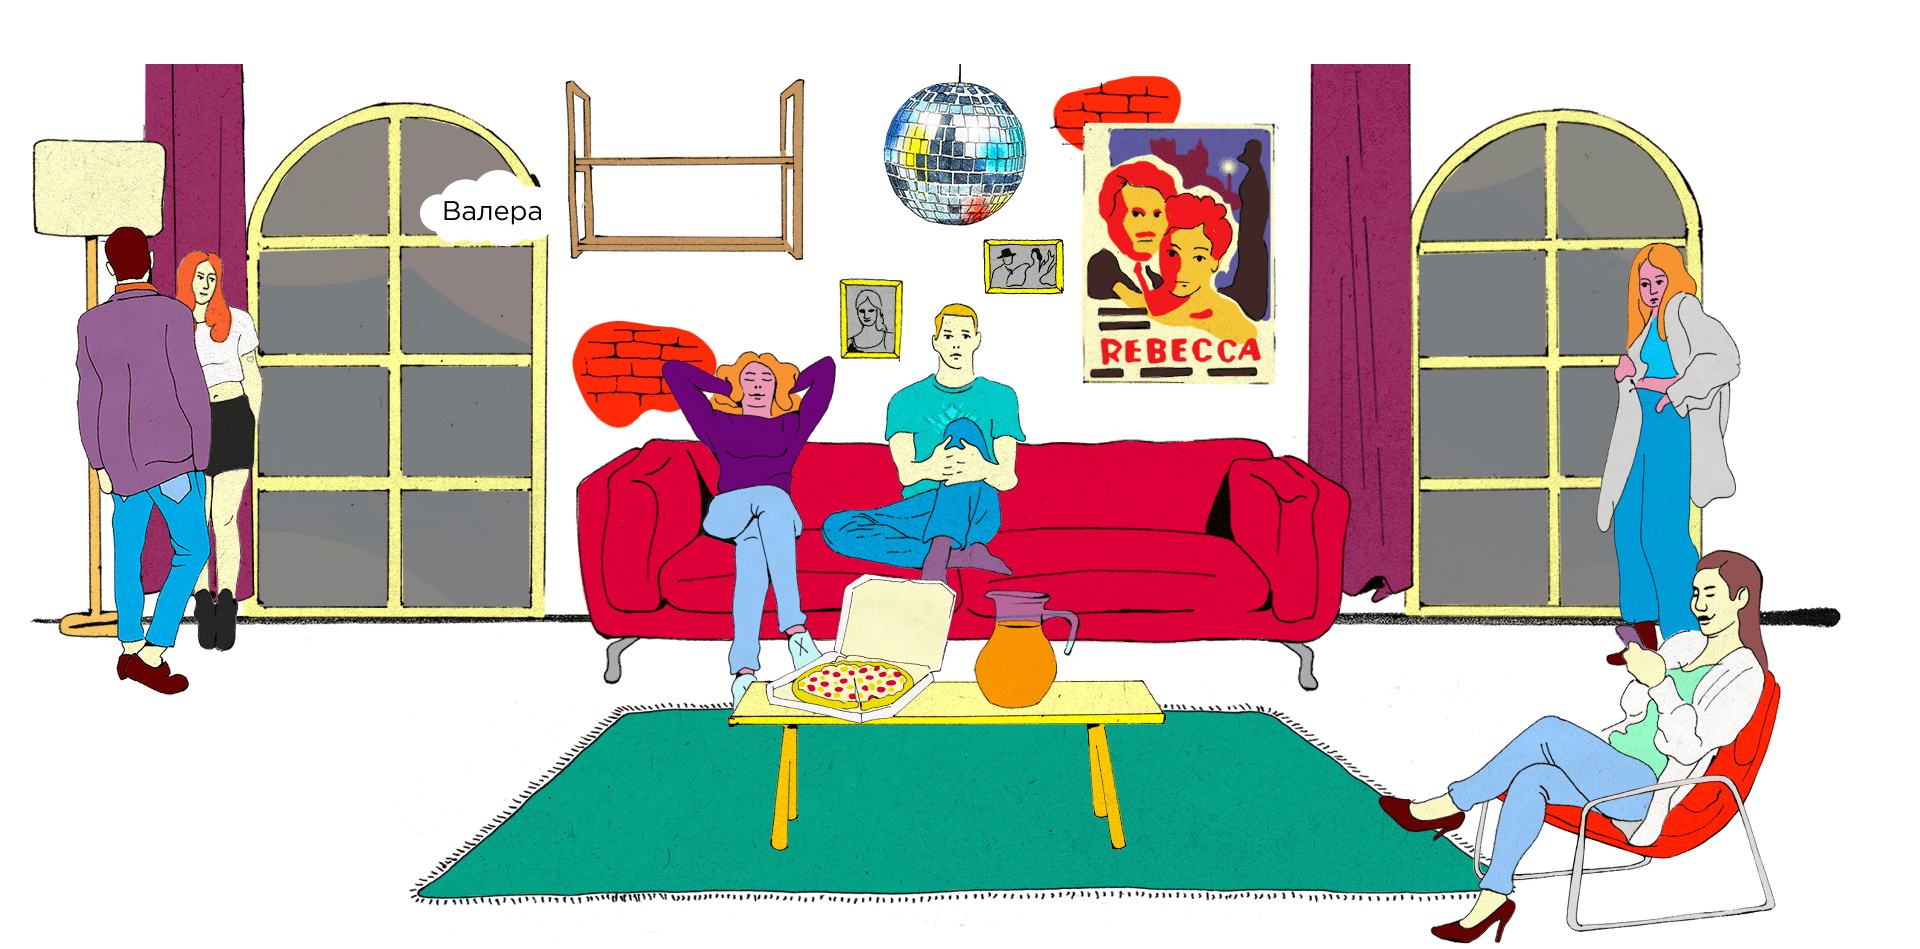
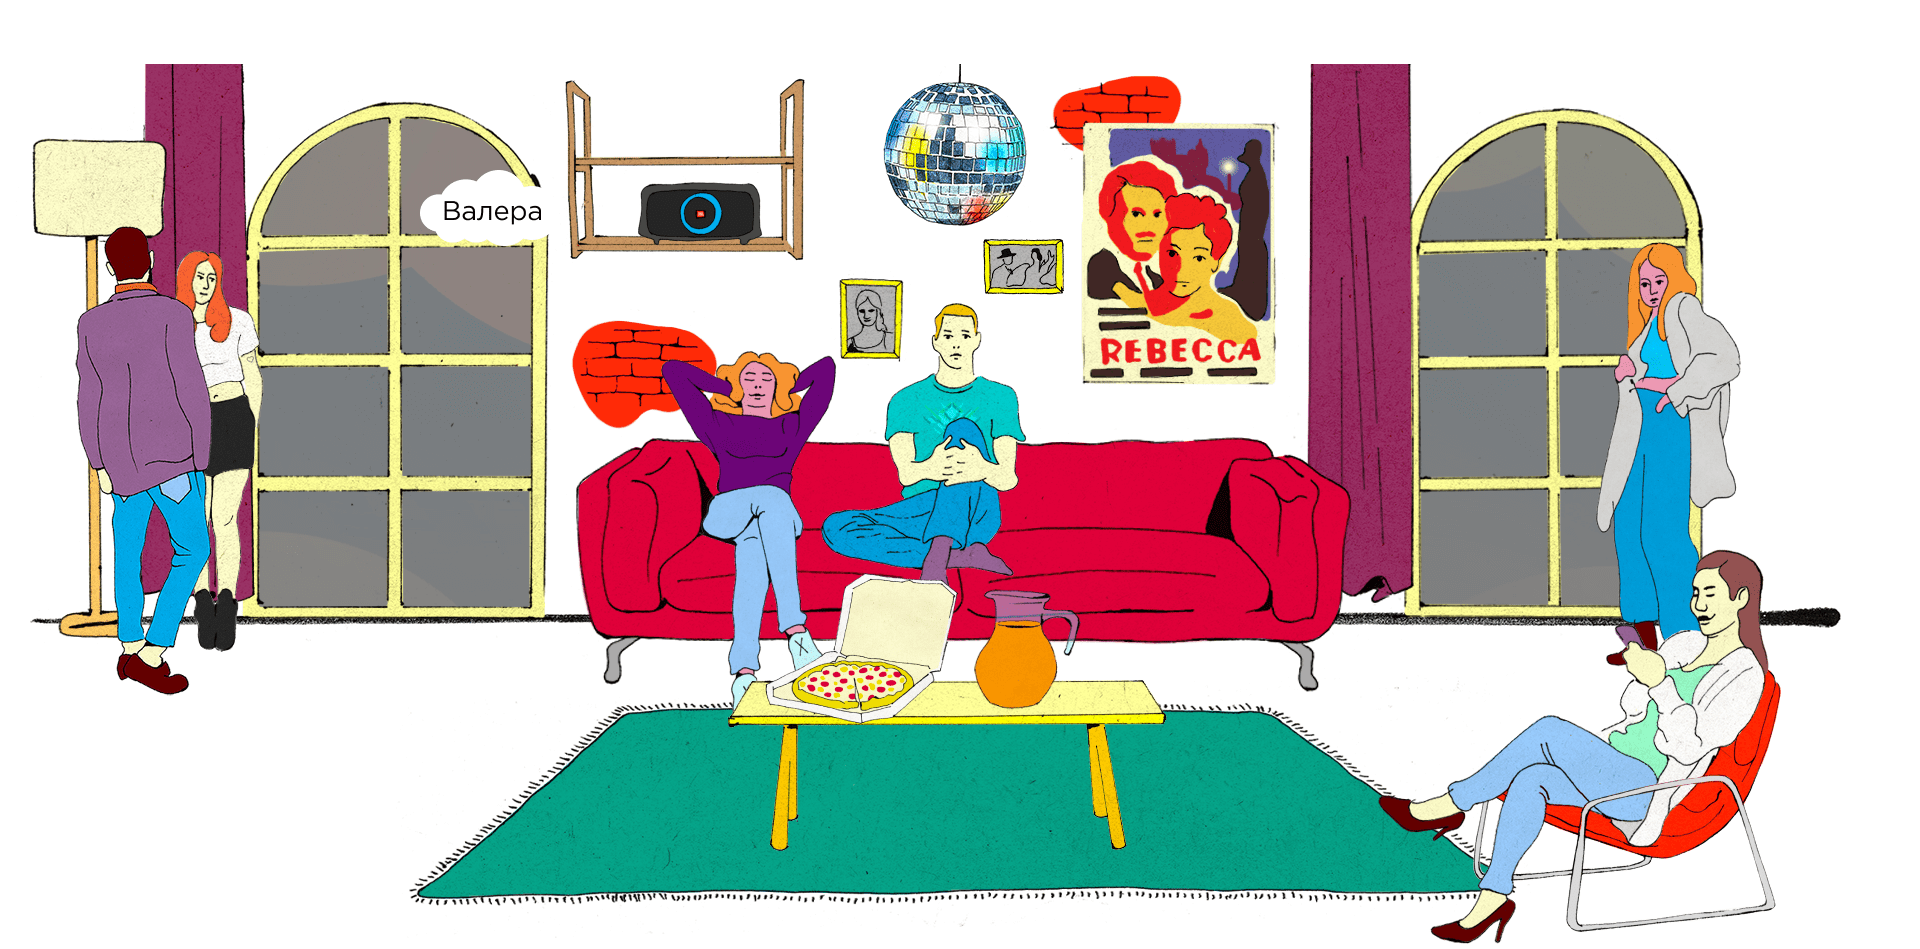
Change level 4

Changed region(s): [[0.3125, 0.1834, 0.4062, 0.275], [0.4688, 0.0917, 0.5312, 0.1834]]

diff --git a/src/components/Game/levelsData.js b/src/components/Game/levelsData.js
@@ -41,7 +41,7 @@ const levels = [
         animatePlus: [
             { id: 28, style: { left: '30.5em', top: '18.4em', width: '22.9em', height: '42.1em' } },//Парень в розовой рубашке
             { id: 29, style: { left: '143.2em', top: '16.8em', width: '14.6em', height: '43.8em' } },//Парень с рюкзаком
-            { id: 31, style: { left: '97.9em', top: '55.4em', width: '16.8em', height: 'auto' } }, //Колонка
+            // { id: 31, style: { left: '97.9em', top: '55.4em', width: '16.8em', height: 'auto' } }, //Колонка
             { id: 37, style: { left: '26.7em', top: '30.3em', width: '37.6em', height: '57.4em' } },//Тансующая пара
             { id: 34, style: { left: '103em', top: '32em', width: '27.9em', height: '55.5em' } }, //Девушка в зеленом платье
             { id: 38, style: { left: '134.2em', top: '27.8em', width: '32.3em', height: '53em' } }, //Девушка в жёлтом платье
@@ -50,7 +50,7 @@ const levels = [
         animateMinus: [
             { id: 28, style: { left: '39.4em', top: '18.3em', width: '22.9em', height: '42.1em' } },//Парень в розовой рубашке
             { id: 29, style: { left: '143.2em', top: '16.8em', width: '14.6em', height: '43.8em' } },//Парень с рюкзаком
-            { id: 31, style: { left: '74.2em', top: '32em', width: '11.8em', height: '6em' } }, //Колонка
+            // { id: 31, style: { left: '74.2em', top: '32em', width: '11.8em', height: '6em' } }, //Колонка
             { id: 32, style: { left: '23.7em', top: '32.7em', width: '26.4em', height: '52.1em' } }, //Девушка спиной
             { id: 34, style: { left: '103em', top: '32em', width: '27.9em', height: '55.5em' } }, //Девушка в зеленом
             { id: 33, style: { left: '136.6em', top: '30.4em', width: '26.1em', height: '56.4em' } }, //Парень с микрофоном
@@ -67,12 +67,12 @@ const levels = [
             { id: 32, style: { left: '23.7em', top: '32.7em', width: '26.4em', height: '52.1em' } }, //Девушка спиной
             { id: 37, style: { left: '45.1em', top: '30em', width: '37.6em', height: '57.4em' } },//Танцующая пара
             { id: 34, style: { left: '100em', top: '31.9em', width: '27.9em', height: '55.5em' } }, //Девушка в зеленом платье
-            { id: 31, style: { left: '63.4em', top: '11.6em', width: '11.8em', height: '6em' } }, //Колонка
+            // { id: 31, style: { left: '63.4em', top: '11.6em', width: '11.8em', height: '6em' } }, //Колонка
         ],
         animateMinus: [
             { id: 28, style: { left: '39.4em', top: '18.3em', width: '22.9em', height: '42.1em' } },//Парень в розовой рубашке
             { id: 29, style: { left: '143.2em', top: '16.8em', width: '14.6em', height: '43.8em' } },//Парень с рюкзаком
-            { id: 31, style: { left: '98.2em', top: '55.5em', width: '14.8em', height: '7.6em' } }, //Колонка
+            // { id: 31, style: { left: '98.2em', top: '55.5em', width: '14.8em', height: '7.6em' } }, //Колонка
             { id: 32, style: { left: '23.7em', top: '32.7em', width: '26.4em', height: '52.1em' } }, //Девушка спиной
             { id: 41, style: { left: '122.8em', top: '20.3em', width: '20.4em', height: '62.5em' } }, //Парень с поднятой рукой
             { id: 35, style: { left: '50.5em', top: '27.6em', width: '31em', height: '60em' } }, //Девушка с микрофоном в розовой

diff --git a/src/context.js b/src/context.js
@@ -26,7 +26,7 @@ export default function ContextProvider({ children }) {
     const [em, setEm] = useState(getEm());
     const [globalHeight, setGlobalHeight] = useState(getHeight());
     const [screen, setScreen] = useState('start');//start / game / final
-    const [level, setLevel] = useState(0); //0 //0-9
+    const [level, setLevel] = useState(0); //4 //0-9
     const [yesno, setYesNo] = useState(null);
     const [isMobale, setIsMobale] = useState(getIsMobile());
     const [imgsLoaded, setImgsLoaded] = useState(false);

diff --git a/src/dataImg.js b/src/dataImg.js
@@ -57,7 +57,7 @@ import gif8 from './img/gif8.png';
 import gif9 from './img/gif9.gif';
 import gif10 from './img/gif10.gif';
 import gif11 from './img/gif11.png';
-import gif12 from './img/gif12.gif';
+import gif12 from './img/gif12.png';
 import gif13 from './img/gif13.gif';
 import gif14 from './img/gif14.gif';
 import gif15 from './img/gif15.gif';
